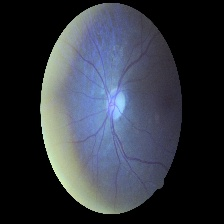
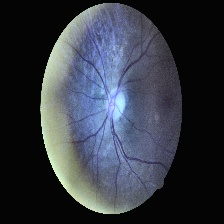
Data Augmentation added

diff --git a/src/preprocess.py b/src/preprocess.py
@@ -8,13 +8,13 @@ from glob import glob
 def preprocess_image(img_path, size=(224, 224)):
     img = cv2.imread(img_path)
     img = cv2.resize(img, size)
-    img = cv2.cvtColor(img, cv2.COLOR_BGR2RGB)  # Convert to RGB
-
-    # Example inversion check (simplified for macula detection)
+    img = cv2.cvtColor(img, cv2.COLOR_BGR2RGB)
+    img = normalize_brightness_contrast(img)  # Apply normalization
+    
     if needs_inversion(img):
-        img = cv2.flip(img, 0)  # Vertical flip if inverted
-
+        img = cv2.flip(img, 0)
     return img
+
 
 def needs_inversion(img):
     # Step 1: Check for Notch
@@ -31,32 +31,54 @@ def needs_inversion(img):
     return False  # Not inverted if macula is not higher
 
 
+def is_notch_shape(contour):
+    # Approximate the contour shape
+    peri = cv2.arcLength(contour, True)
+    approx = cv2.approxPolyDP(contour, 0.04 * peri, True)
+    
+    # Check for specific shapes
+    if len(approx) == 3:  # Triangle
+        return True
+    elif len(approx) == 4:  # Rectangle
+        aspect_ratio = cv2.boundingRect(contour)[2] / cv2.boundingRect(contour)[3]
+        if 0.9 <= aspect_ratio <= 1.1:  # Check if it's roughly square
+            return True
+    elif len(approx) > 4:  # Circle or approximate circle
+        area = cv2.contourArea(contour)
+        ((x, y), radius) = cv2.minEnclosingCircle(contour)
+        circle_area = np.pi * (radius ** 2)
+        if 0.8 * circle_area < area < 1.2 * circle_area:  # Circular shape
+            return True
+    return False
+
+
 def contains_notch(img):
-    """Check if there is a noticeable notch on the side."""
-    # Convert to grayscale and apply edge detection
     gray = cv2.cvtColor(img, cv2.COLOR_RGB2GRAY)
     edges = cv2.Canny(gray, 50, 150)
-
-    # Find contours
     contours, _ = cv2.findContours(edges, cv2.RETR_EXTERNAL, cv2.CHAIN_APPROX_SIMPLE)
+    
     for cnt in contours:
-        # Check for large contours near image edges, which could indicate a notch
         x, y, w, h = cv2.boundingRect(cnt)
         if w > 10 and h > 10 and (x < 10 or x + w > img.shape[1] - 10):
-            return True  # Notch detected
-    return False  # No notch detected
+            if is_notch_shape(cnt):
+                return True
+    return False
 
 
 def find_macula_and_optic_nerve(img):
-    """Identify approximate positions of macula and optic nerve."""
-    gray = cv2.cvtColor(img, cv2.COLOR_RGB2GRAY)
+    lab = cv2.cvtColor(img, cv2.COLOR_RGB2LAB)
+    l, a, b = cv2.split(lab)
+    clahe = cv2.createCLAHE(clipLimit=2.0, tileGridSize=(8, 8))
+    l = clahe.apply(l)
+    img_clahe = cv2.merge((l, a, b))
+    img_rgb = cv2.cvtColor(img_clahe, cv2.COLOR_LAB2RGB)
+
+    gray = cv2.cvtColor(img_rgb, cv2.COLOR_RGB2GRAY)
     blurred = cv2.GaussianBlur(gray, (15, 15), 0)
 
-    # Threshold to identify bright (optic nerve) and dark (macula) areas
     _, bright_thresh = cv2.threshold(blurred, 200, 255, cv2.THRESH_BINARY)
     _, dark_thresh = cv2.threshold(blurred, 50, 255, cv2.THRESH_BINARY_INV)
 
-    # Get contours of optic nerve (bright areas) and macula (dark areas)
     optic_contours, _ = cv2.findContours(bright_thresh, cv2.RETR_EXTERNAL, cv2.CHAIN_APPROX_SIMPLE)
     macula_contours, _ = cv2.findContours(dark_thresh, cv2.RETR_EXTERNAL, cv2.CHAIN_APPROX_SIMPLE)
 
@@ -64,6 +86,7 @@ def find_macula_and_optic_nerve(img):
     macula_position = get_largest_contour_center(macula_contours)
     
     return macula_position, optic_nerve_position
+
 
 
 
@@ -80,29 +103,42 @@ def get_largest_contour_center(contours):
 
 
 
-def preprocess_and_save_images(data_dir, output_dir, num_samples=5):
-    """Preprocess images and save them to a specified output directory."""
+def normalize_brightness_contrast(img):
+    lab = cv2.cvtColor(img, cv2.COLOR_RGB2LAB)
+    l, a, b = cv2.split(lab)
+    clahe = cv2.createCLAHE(clipLimit=2.0, tileGridSize=(8, 8))
+    l = clahe.apply(l)
+    img_normalized = cv2.merge((l, a, b))
+    return cv2.cvtColor(img_normalized, cv2.COLOR_LAB2RGB)
+
+
+
+def preprocess_and_save_images(data_dir, output_dir, batch_size=32):
+    """Preprocess images in batches and save them to an output directory."""
     if not os.path.exists(output_dir):
-        os.makedirs(output_dir)  # Create output directory if it doesn't exist
+        os.makedirs(output_dir)
         print(f"Created output directory: {output_dir}")
     
-    sample_images = glob(os.path.join(data_dir, '*.jpeg'))
-    print(f"Found {len(sample_images)} images in {data_dir}.")
+    image_paths = glob(os.path.join(data_dir, '*.jpeg'))
+    print(f"Found {len(image_paths)} images in {data_dir}.")
     
-    for i, img_path in enumerate(sample_images[:num_samples]):
-        print(f"Processing image: {img_path}")  # Debugging statement
-        processed_img = preprocess_image(img_path)
+    # Process in batches
+    for i in range(0, len(image_paths), batch_size):
+        batch = image_paths[i:i+batch_size]
+        print(f"Processing batch {i // batch_size + 1} of {len(image_paths) // batch_size + 1}")
         
-        if processed_img is not None:  # Check if the image was processed successfully
-            output_path = os.path.join(output_dir, f"processed_{os.path.basename(img_path)}")
-            cv2.imwrite(output_path, processed_img)  # Save the processed image
-            print(f"Saved processed image to: {output_path}")
-        else:
-            print(f"Image {img_path} could not be processed.")
+        for img_path in batch:
+            processed_img = preprocess_image(img_path)
+            
+            if processed_img is not None:
+                output_path = os.path.join(output_dir, f"processed_{os.path.basename(img_path)}")
+                cv2.imwrite(output_path, processed_img)
+                print(f"Saved processed image to: {output_path}")
+            else:
+                print(f"Image {img_path} could not be processed.")
 
-
-# Call the function with your input and output directory
+# Example usage
 if __name__ == "__main__":
-    data_dir = "data/sampleimages"  # Adjust path to your data directory
-    output_dir = "data/processed_images"  # Adjust path for saving processed images
-    preprocess_and_save_images(data_dir, output_dir)
+    data_dir = "data/sampleimages"  # Your input directory
+    output_dir = "data/processed_images"  # Output directory for processed images
+    preprocess_and_save_images(data_dir, output_dir, batch_size=32)

diff --git a/src/dataAugmentation.py b/src/dataAugmentation.py
@@ -1,0 +1,68 @@
+# src/dataAugmentation.py
+import cv2
+import numpy as np
+import os
+from glob import glob
+
+def augment_image(img):
+    """Applies a series of augmentations to an image."""
+    augmented_images = []
+
+    # Rotation (e.g., -30, 0, 30 degrees)
+    angles = [-30, 0, 30]
+    for angle in angles:
+        rotated = rotate_image(img, angle)
+        augmented_images.append(rotated)
+
+    # Flip (horizontal and vertical)
+    flipped_h = cv2.flip(img, 1)
+    flipped_v = cv2.flip(img, 0)
+    augmented_images.extend([flipped_h, flipped_v])
+
+    # Brightness and contrast adjustments
+    brightened = adjust_brightness_contrast(img, brightness=30, contrast=50)
+    darkened = adjust_brightness_contrast(img, brightness=-30, contrast=30)
+    augmented_images.extend([brightened, darkened])
+
+    return augmented_images
+
+def rotate_image(img, angle):
+    """Rotates the image by a specified angle."""
+    h, w = img.shape[:2]
+    center = (w // 2, h // 2)
+    rotation_matrix = cv2.getRotationMatrix2D(center, angle, scale=1)
+    rotated_img = cv2.warpAffine(img, rotation_matrix, (w, h))
+    return rotated_img
+
+def adjust_brightness_contrast(img, brightness=0, contrast=0):
+    """Adjusts brightness and contrast of an image."""
+    return cv2.convertScaleAbs(img, alpha=1 + (contrast / 100), beta=brightness)
+
+def augment_and_save_images(data_dir, output_dir, batch_size=10):
+    """Performs data augmentation on images in batches and saves them."""
+    if not os.path.exists(output_dir):
+        os.makedirs(output_dir)
+
+    image_paths = glob(os.path.join(data_dir, '*.jpeg'))
+    print(f"Found {len(image_paths)} images in {data_dir}.")
+
+    # Process in batches
+    for i in range(0, len(image_paths), batch_size):
+        batch = image_paths[i:i + batch_size]
+        print(f"Processing batch {i // batch_size + 1} of {len(image_paths) // batch_size + 1}")
+
+        for img_path in batch:
+            img = cv2.imread(img_path)
+            augmented_images = augment_image(img)
+
+            for j, aug_img in enumerate(augmented_images):
+                output_path = os.path.join(output_dir, f"{os.path.splitext(os.path.basename(img_path))[0]}_aug_{j}.jpeg")
+                cv2.imwrite(output_path, aug_img)
+                print(f"Saved augmented image to: {output_path}")
+
+# Example usage
+if __name__ == "__main__":
+    data_dir = "data/sampleimages"  # Path to the original images
+    output_dir = "data/augmented_images"  # Path for saving augmented images
+    augment_and_save_images(data_dir, output_dir, batch_size=10)
+
